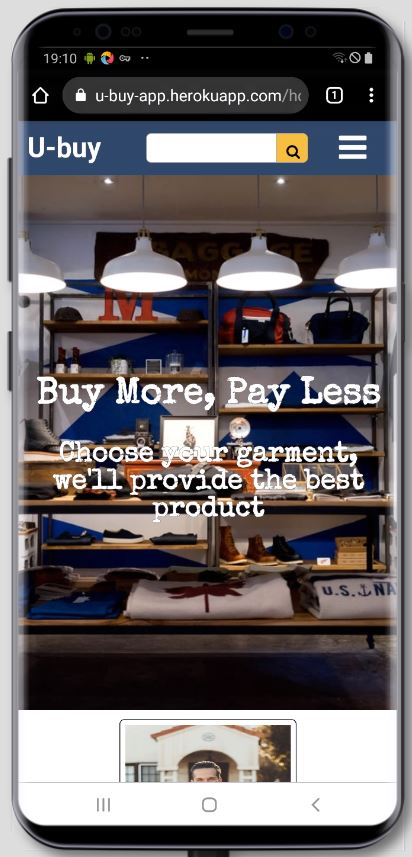
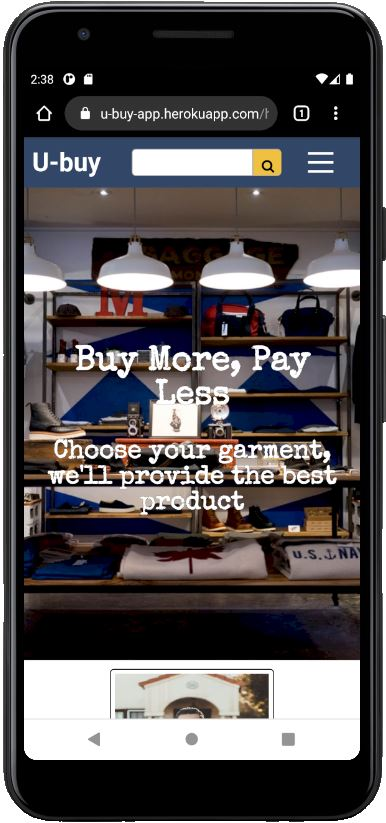
menu fix

diff --git a/frontend/src/cmps/NavBar/NavBar.jsx b/frontend/src/cmps/NavBar/NavBar.jsx
@@ -15,8 +15,6 @@ export default function NavBar() {
         dispatch(signout());
     };
     const [navMobile, toggleNavMobile] = useState(false)
-    console.log('navMobile:', navMobile)
-
 
     return (
         <div>
@@ -30,7 +28,7 @@ export default function NavBar() {
                 </div>
 
                 <a className={`${navMobile ? 'opened' : 'menu'}`} onClick={() => toggleNavMobile(!navMobile)} aria-label="Main Menu">
-                    <svg width="50" height="50" viewBox="0 0 100 100" >
+                    <svg width="60" height="60" viewBox="0 0 100 100" >
                         <path className="line line1" d="M 20,29.000046 H 80.000231 C 80.000231,29.000046 94.498839,28.817352 94.532987,66.711331 94.543142,77.980673 90.966081,81.670246 85.259173,81.668997 79.552261,81.667751 75.000211,74.999942 75.000211,74.999942 L 25.000021,25.000058" />
                         <path className="line line2" d="M 20,50 H 80" />
                         <path className="line line3" d="M 20,70.999954 H 80.000231 C 80.000231,70.999954 94.498839,71.182648 94.532987,33.288669 94.543142,22.019327 90.966081,18.329754 85.259173,18.331003 79.552261,18.332249 75.000211,25.000058 75.000211,25.000058 L 25.000021,74.999942" />

diff --git a/frontend/src/index.scss b/frontend/src/index.scss
@@ -420,6 +420,7 @@ img.large {
   background-color: rgb(255, 255, 255);
   border-radius: 10px;
   margin-top: 0.5rem;
+
 }
 
 .SideDrawer {
@@ -438,6 +439,7 @@ img.large {
 
 .menu {
   display: none;
+  z-index:30;
 }
 
 @media screen and (max-width: 720px) {
@@ -456,6 +458,7 @@ img.large {
     color: white;
   }
   .navBar {
+    display: none;
     // display: flex;
     transition: all 0.5s ease-in-out;
     background-color: rgb(27, 68, 131);
@@ -472,9 +475,9 @@ img.large {
   &.hide {
     right: -50%;
     position: fixed;
-    // display: none;
-    opacity: 0;
-    z-index: 10;
+    display: none;
+    // opacity: 0;
+    // z-index: 10;
   }
 
   .navBar a{
@@ -574,6 +577,8 @@ img.large {
   a.logo {
     font-size: 3rem;
   }
+
+
 }
 
 .Open {
